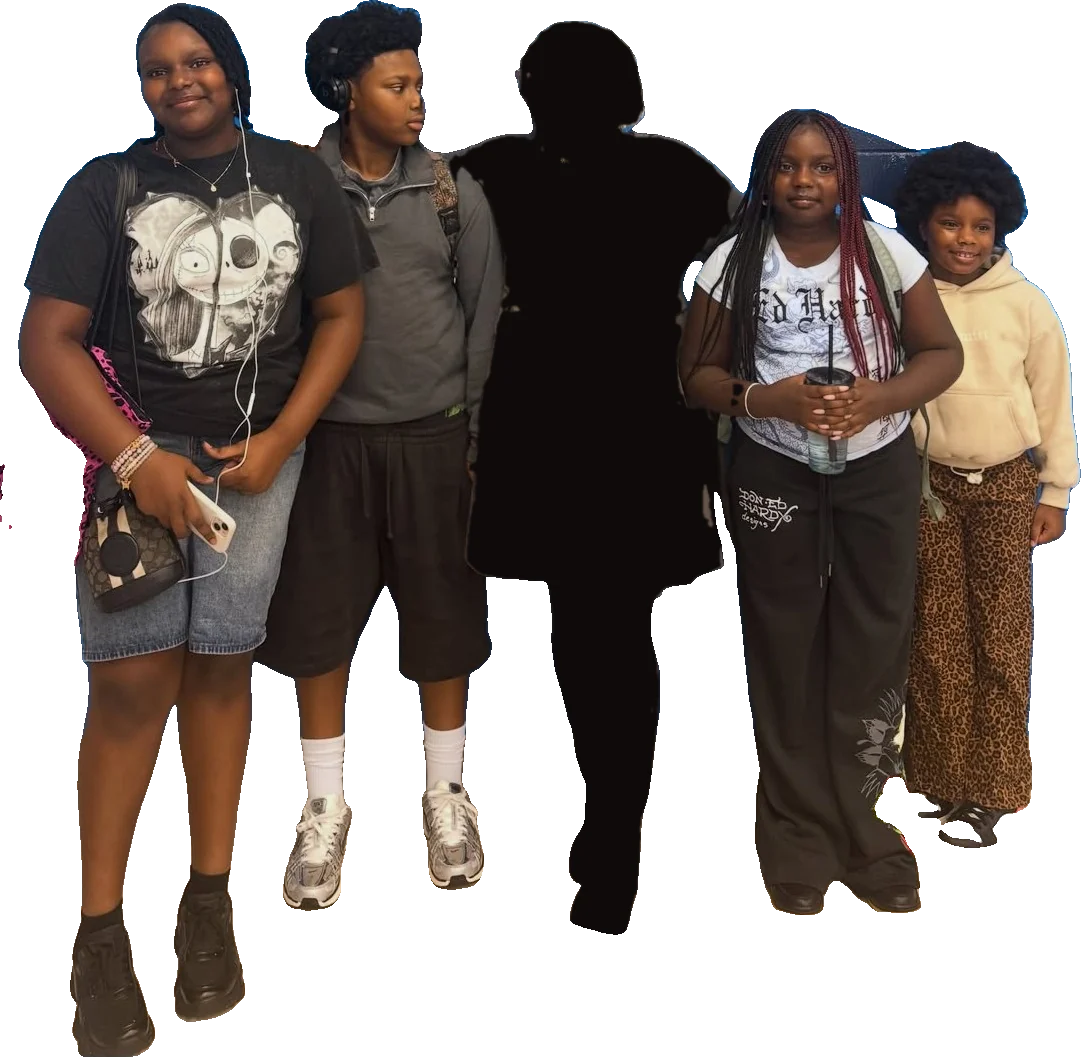
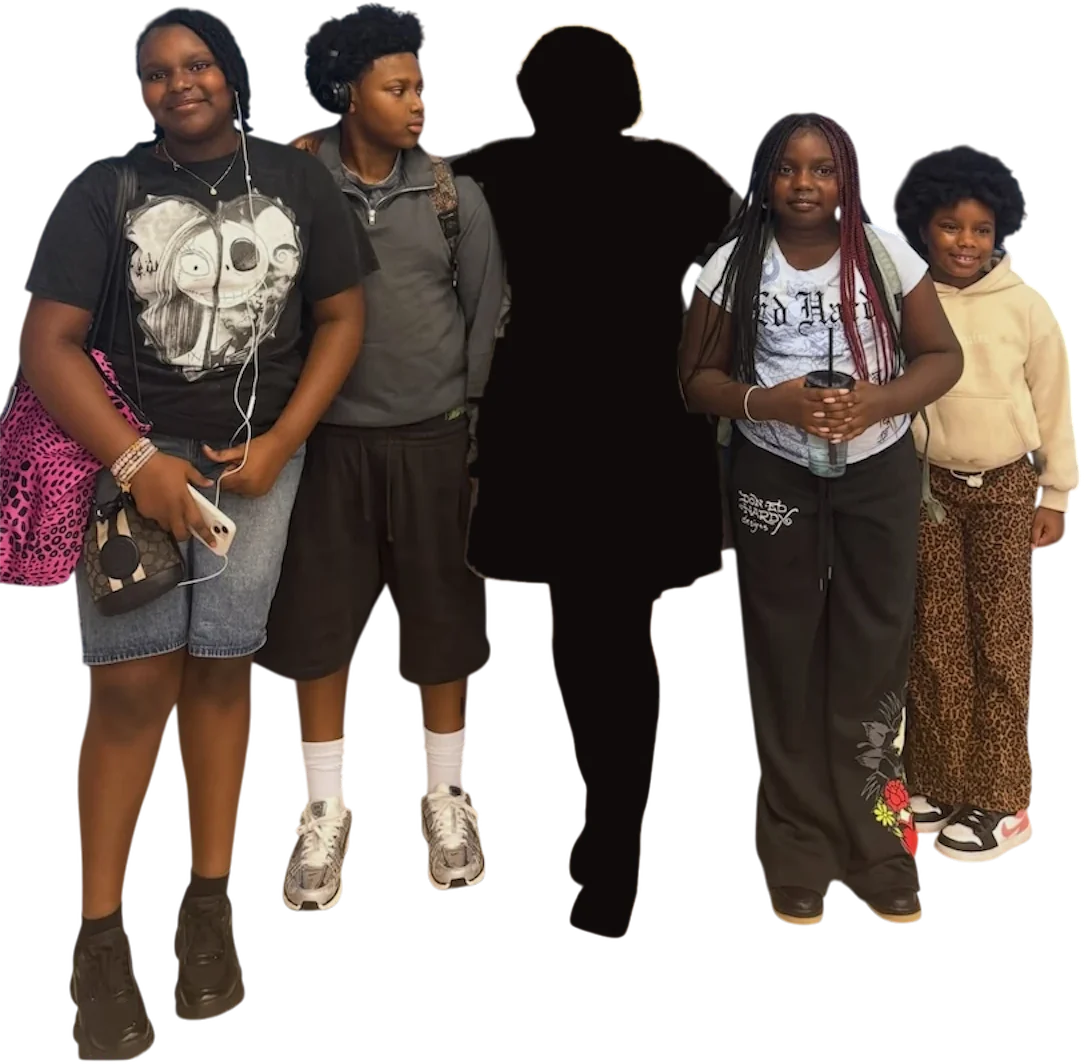
Adjust screens 1, 3, 4 layout and use new screen 5 photo

diff --git a/style.css b/style.css
@@ -132,7 +132,7 @@ button { font: inherit; cursor: pointer; }
 /* ---------- Screen 1 ---------- */
 .fireworks { position: absolute; inset: 0; width: 100%; height: 100%; z-index: 0; }
 .skyline { position: absolute; left: calc(50% - 330px); bottom: 0; width: 780px; max-width: none; height: auto; z-index: 1; pointer-events: none; }
-.stage .cutout.s1 { position: absolute; bottom: -78px; right: -18px; height: min(50%, 290px); width: auto; filter: drop-shadow(0 0 22px rgba(242,193,78,.35)); }
+.stage .cutout.s1 { position: absolute; bottom: 14%; left: 0; right: 0; margin: 0 auto; height: min(52%, 300px); width: auto; filter: drop-shadow(0 0 22px rgba(242,193,78,.35)); -webkit-mask-image: linear-gradient(#000 82%, transparent); mask-image: linear-gradient(#000 82%, transparent); }
 
 /* ---------- Cutouts ---------- */
 .cutout { max-height: 100%; width: auto; }
@@ -140,13 +140,13 @@ button { font: inherit; cursor: pointer; }
 .duo { gap: 10px; align-items: flex-end; }
 .duo > * { min-width: 0; }
 .duo > .cutout { max-height: 100%; max-width: 48%; object-fit: contain; }
-.stage .cutout.s4 { position: absolute; bottom: -78px; width: min(100%, 520px); max-width: none; max-height: none; filter: drop-shadow(0 -6px 24px rgba(0,0,0,.5)); }
+.stage .cutout.s4 { position: absolute; bottom: -78px; left: -16px; width: min(100%, 520px); max-width: none; max-height: none; filter: drop-shadow(0 -6px 24px rgba(0,0,0,.5)); }
 .stage .cutout.s5 { max-width: 100%; filter: drop-shadow(0 12px 18px rgba(80,30,0,.35)); }
 
 /* ---------- Screen 3 ---------- */
 .stage > .frame-leopard { max-width: 84%; z-index: 1; }
-.no-clown { position: absolute; top: 2%; right: 0; width: 112px; height: 112px; z-index: 0; }
-.no-clown img { position: absolute; inset: 16px; width: 80px; height: 80px; image-rendering: pixelated; border-radius: 50%; background: #fff3; }
+.no-clown { position: absolute; top: 4%; left: 2%; width: 78px; height: 78px; z-index: 2; filter: drop-shadow(0 4px 8px rgba(0,0,0,.45)); }
+.no-clown img { position: absolute; inset: 11px; width: 56px; height: 56px; image-rendering: pixelated; border-radius: 50%; background: #fff3; }
 .no-clown svg { position: absolute; inset: 0; }
 .active .wobble { animation: wobble 1.2s ease-in-out infinite; }
 @keyframes wobble { 0%,100% { transform: rotate(-10deg); } 50% { transform: rotate(10deg) scale(1.05); } }
